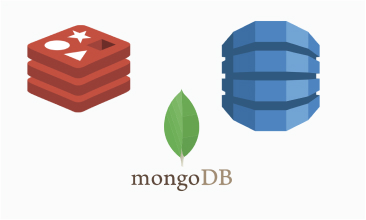
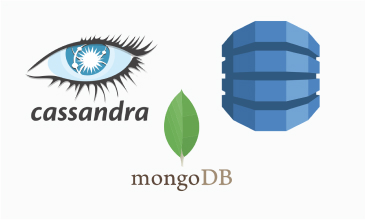
update the tech page and navbar

Changed region(s): [[0.0601, 0.1091, 0.4208, 0.5727]]

diff --git a/components/Navbar.js b/components/Navbar.js
@@ -65,12 +65,12 @@ export default function Navbar() {
                       }   `}
                   >
                     Our Services
-                    <div className='group-hover:block dropdown-menu absolute hidden top-16 -left-10'>
-                      <ul className='top-0 w-44 bg-white shadow text-center    rounded'>
+                    <div className='group-hover:block dropdown-menu absolute hidden top-16 -left-2'>
+                      <ul className='top-0 w-52 bg-white shadow text-left    rounded'>
                         <li >
                           <a
                             href='/our_services/team_as_a_service'
-                            className='block py-3  text-sm text-gray-700 hover:bg-gray-100 border-b'
+                            className='block py-3 pl-4  text-sm text-gray-700 hover:bg-gray-100 border-b'
                           >
                             Team as a service
                           </a>
@@ -78,9 +78,25 @@ export default function Navbar() {
                         <li >
                           <a
                             href='/our_services/developer_as_a_service'
-                            className='block py-3   text-sm text-gray-700 hover:bg-gray-100'
+                            className='block py-3 pl-4  text-sm text-gray-700 hover:bg-gray-100 border-b'
                           >
                             Developer as a service
+                          </a>
+                        </li>
+                        <li >
+                          <a
+                            href='/our_services/blockchain'
+                            className='block py-3 pl-4  text-sm text-gray-700 hover:bg-gray-100 border-b'
+                          >
+                            Blockchain
+                          </a>
+                        </li>
+                        <li >
+                          <a
+                            href='/our_services/mvp'
+                            className='block py-3 pl-4  text-sm text-gray-700 hover:bg-gray-100'
+                          >
+                            Rapid Prototyping (MVP)
                           </a>
                         </li>
                       </ul>

diff --git a/constants/constants.js b/constants/constants.js
@@ -985,7 +985,7 @@ export const technologies_page = {
           image: "assets/img/tech_stack/tech_stack_angular.jpg",
           tech_name: "Angular",
           descripition:
-            "Angular is a platform and framework for building single-page client applications using HTML and TypeScript. ... It implements core and optional functionality as a set of TypeScript libraries that you import into your applications. The architecture of an Angular application relies on certain fundamental concepts.",
+            "Angular is a platform and framework for building single-page client applications using HTML and TypeScript.  It implements core and optional functionality as a set of TypeScript libraries that you import into your applications. The architecture of an Angular application relies on certain fundamental concepts.",
         },
         {
           image: "assets/img/tech_stack/tech_stack_react_native.jpg",
@@ -1072,9 +1072,9 @@ export const technologies_page = {
         },
         {
           image: "assets/img/tech_stack/tech_stack_elastic.jpg",
-          tech_name: "Elastic database",
+          tech_name: "Others",
           descripition:
-          "The elastic database is a new feature offered for SQL Azure Databases. Elastic databases are useful when you have several databases and you want to monitor and manage all the databases at the same time. ... With elastic databases, you can have a specific price for all the databases at the same time."
+          "We worked on many databases for different types of use cases like we use Redis for providing the built-in operations that process data optimally at the database level rather than the application level and we also use elastic for It allows you to store, search, and analyze big volumes of data quickly and in near real time"
         },
       ],
     },

diff --git a/pages/contact.js b/pages/contact.js
@@ -248,7 +248,7 @@ function contact() {
                     htmlFor="project-briefy"
                     className="block text-sm font-medium text-gray-700"
                   >
-                    Describe your project briefy<sup>*</sup>
+                    Describe your project briefly<sup>*</sup>
                   </label>
                   <textarea
                     required
@@ -311,7 +311,7 @@ function contact() {
                     </option>
                     <option value="3 to 6 Months">3 to 6 Months</option>
                     <option value="6 to 12 Months">6 to 12 Months</option>
-                    <option value="6 to 12 Months">More than a year</option>
+                    <option value="More than a year">More than a year</option>
                   </select>
                 </div>
 

diff --git a/pages/our_work.js b/pages/our_work.js
@@ -5,7 +5,7 @@ import useGetFetch from './hooks/useGetFetch';
 
 const our_work = () => {
   const [selectedCategory, setSelectedCategory] = useState([]);
-  const [portfolioData, isLoading] = useGetFetch("http://dev-portal.hcode.tech:8000/api/v1/project/");
+  const [portfolioData, isLoading] = useGetFetch("https://portal.hcode.tech/api/v1/project/");
   // Select Industry Card
   const setSelectedTech = (e, industryName) => {
     if (e.target.checked) {

diff --git a/pages/stylesheet.js b/pages/stylesheet.js
@@ -9,6 +9,7 @@ const stylesheet = () => {
             <div className="bg-[#EBECFF] text-[#000000]"></div>
             <div className="bg-[#333333] text-[#fff]"></div>
             <div className="bg-[#190830] text-[#ffffff]"></div>
+            <div className="bg-[#343D52] text-[#485063]"></div>
             <div className="bg-[#6BA564]"></div>
             <div className="bg-[#878E92]"></div>
             <div className="bg-[#82AACD]"></div>

diff --git a/README.md b/README.md
@@ -1,9 +1,38 @@
-# Next.js + Tailwind CSS Example
+## Deployment steps
 
+create build
+```
 npm run-script build
-cp -r img/\* out/assets/img/.
-cp sitemap.xml out/.
+```
 
+
+(optional) If optimized images are available in `img/` folder then
+```
+cp -r img/\* out/assets/img/.
+```
+
+(optional) If sitemap is available
+```
+cp sitemap.xml out/.
+```
+
+final step*
+```
+cd out
+aws s3 cp . s3://hcode.tech --recursive
+for old in *.html; do aws s3 mv s3://hcode.tech/$old s3://hcode.tech/`basename $old .html`; done
+```
+
+```
+*  need to install awscli first and run aws configure command with the correct key and secret params
+```
+https://docs.aws.amazon.com/cli/latest/userguide/getting-started-install.html
+```
+
+for old in *.html; do mv $old `basename $old .html`'';  aws s3 cp `basename $old .html` s3://hcode.tech --content-type 'text/html'; done 
+
+(old process)if deploying from server
+```
 zip -r out.zip out
 scp out.zip hcode:~/.
 
@@ -13,11 +42,14 @@ unzip -o out
 cd out
 
 // aws s3 cp . s3://hcode.tech --recursive --exclude ".git/*" --exclude "*.py"  --exclude "__pycache__/*" --exclude "php/*" --exclude "*.html"
+```
+final step to check the changes is deployed on live server
+http://hcode.tech.s3-website-us-east-1.amazonaws.com/
+
 
 
 <!-- aws s3 cp . s3://hcode.tech --recursive  --content-type 'text/html' --exclude "*"  --include "*.html" -->
 
 <!-- https://github.com/github/gitignore/blob/master/Node.gitignore -->
 
-for old in *.html; do mv $old `basename $old .html`''; done 
 
